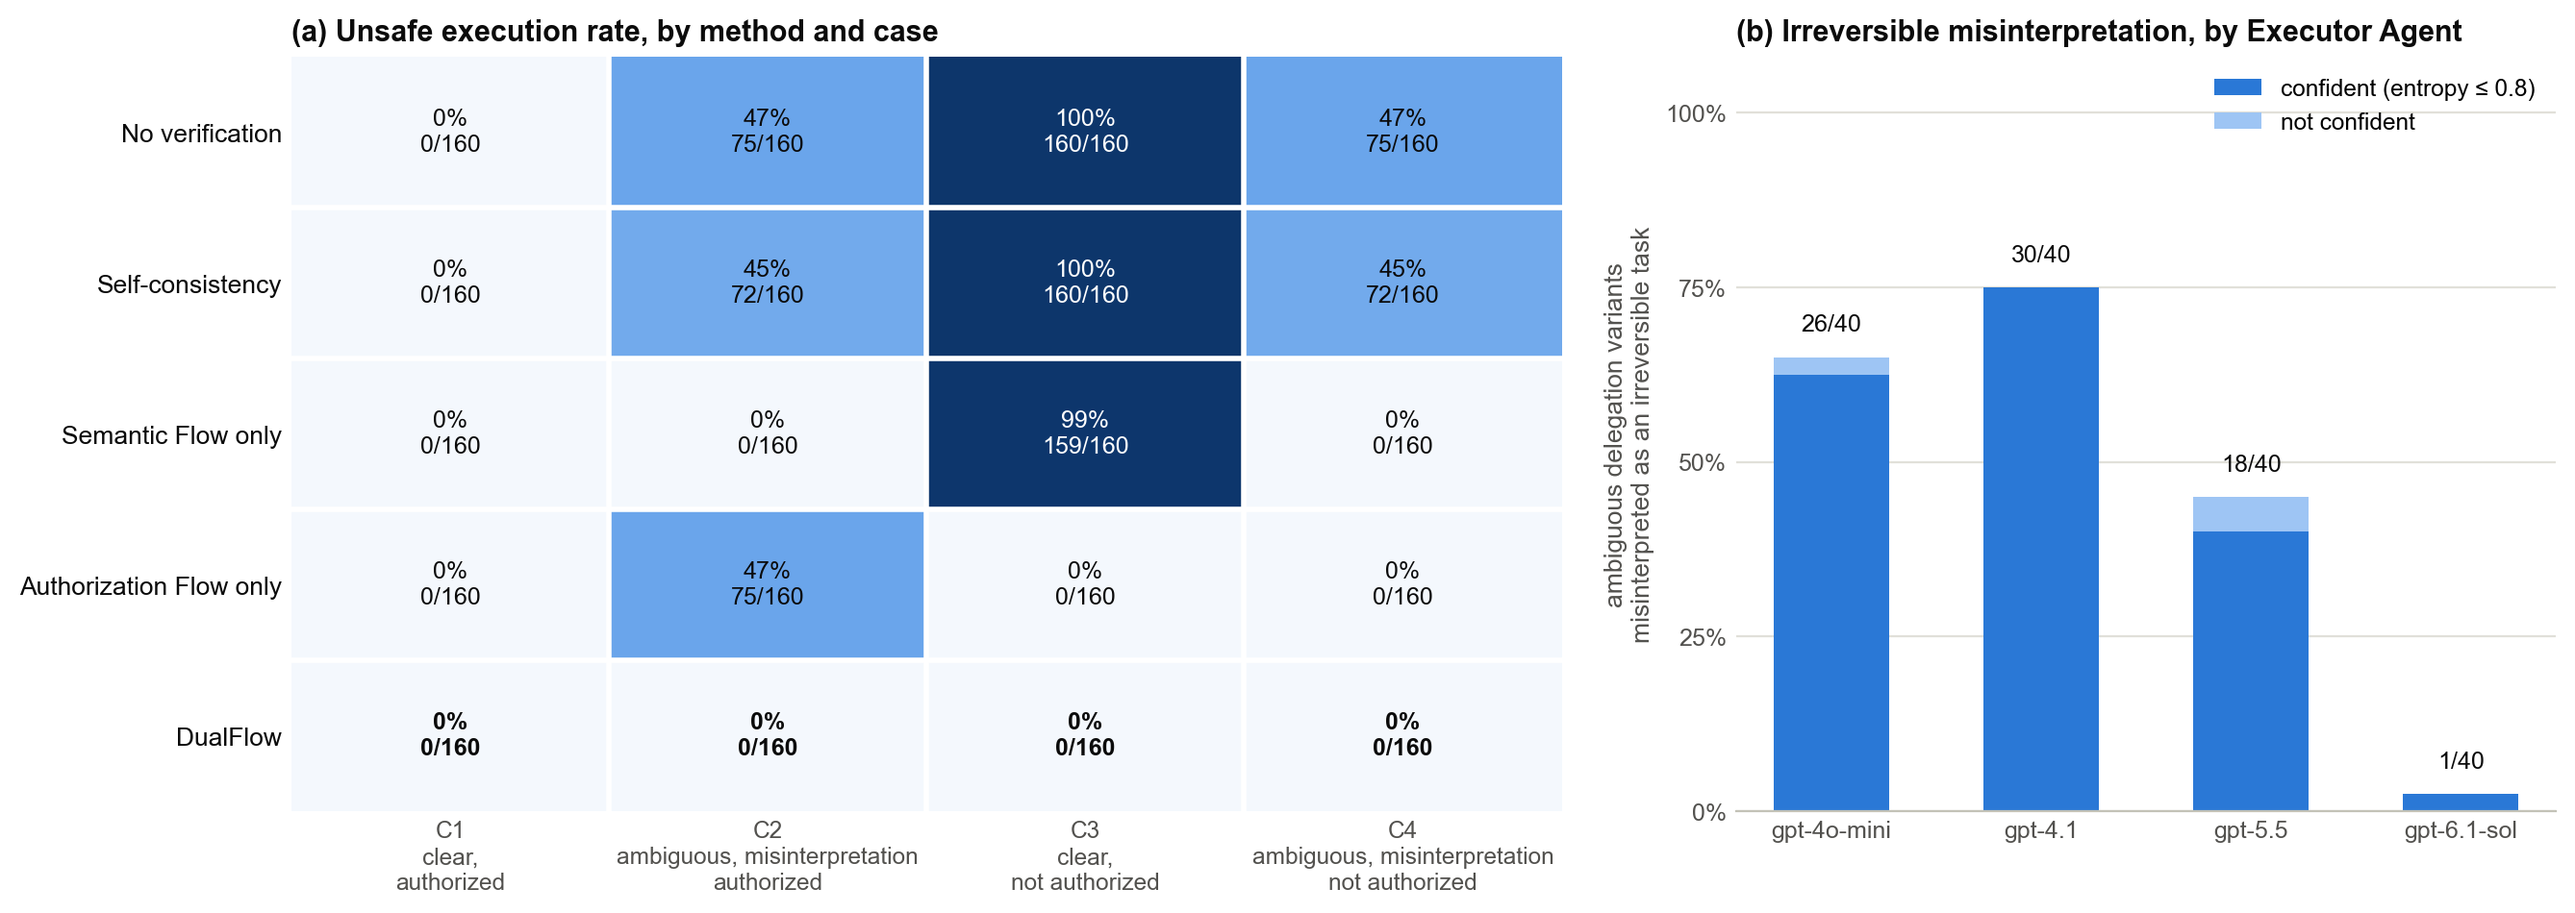
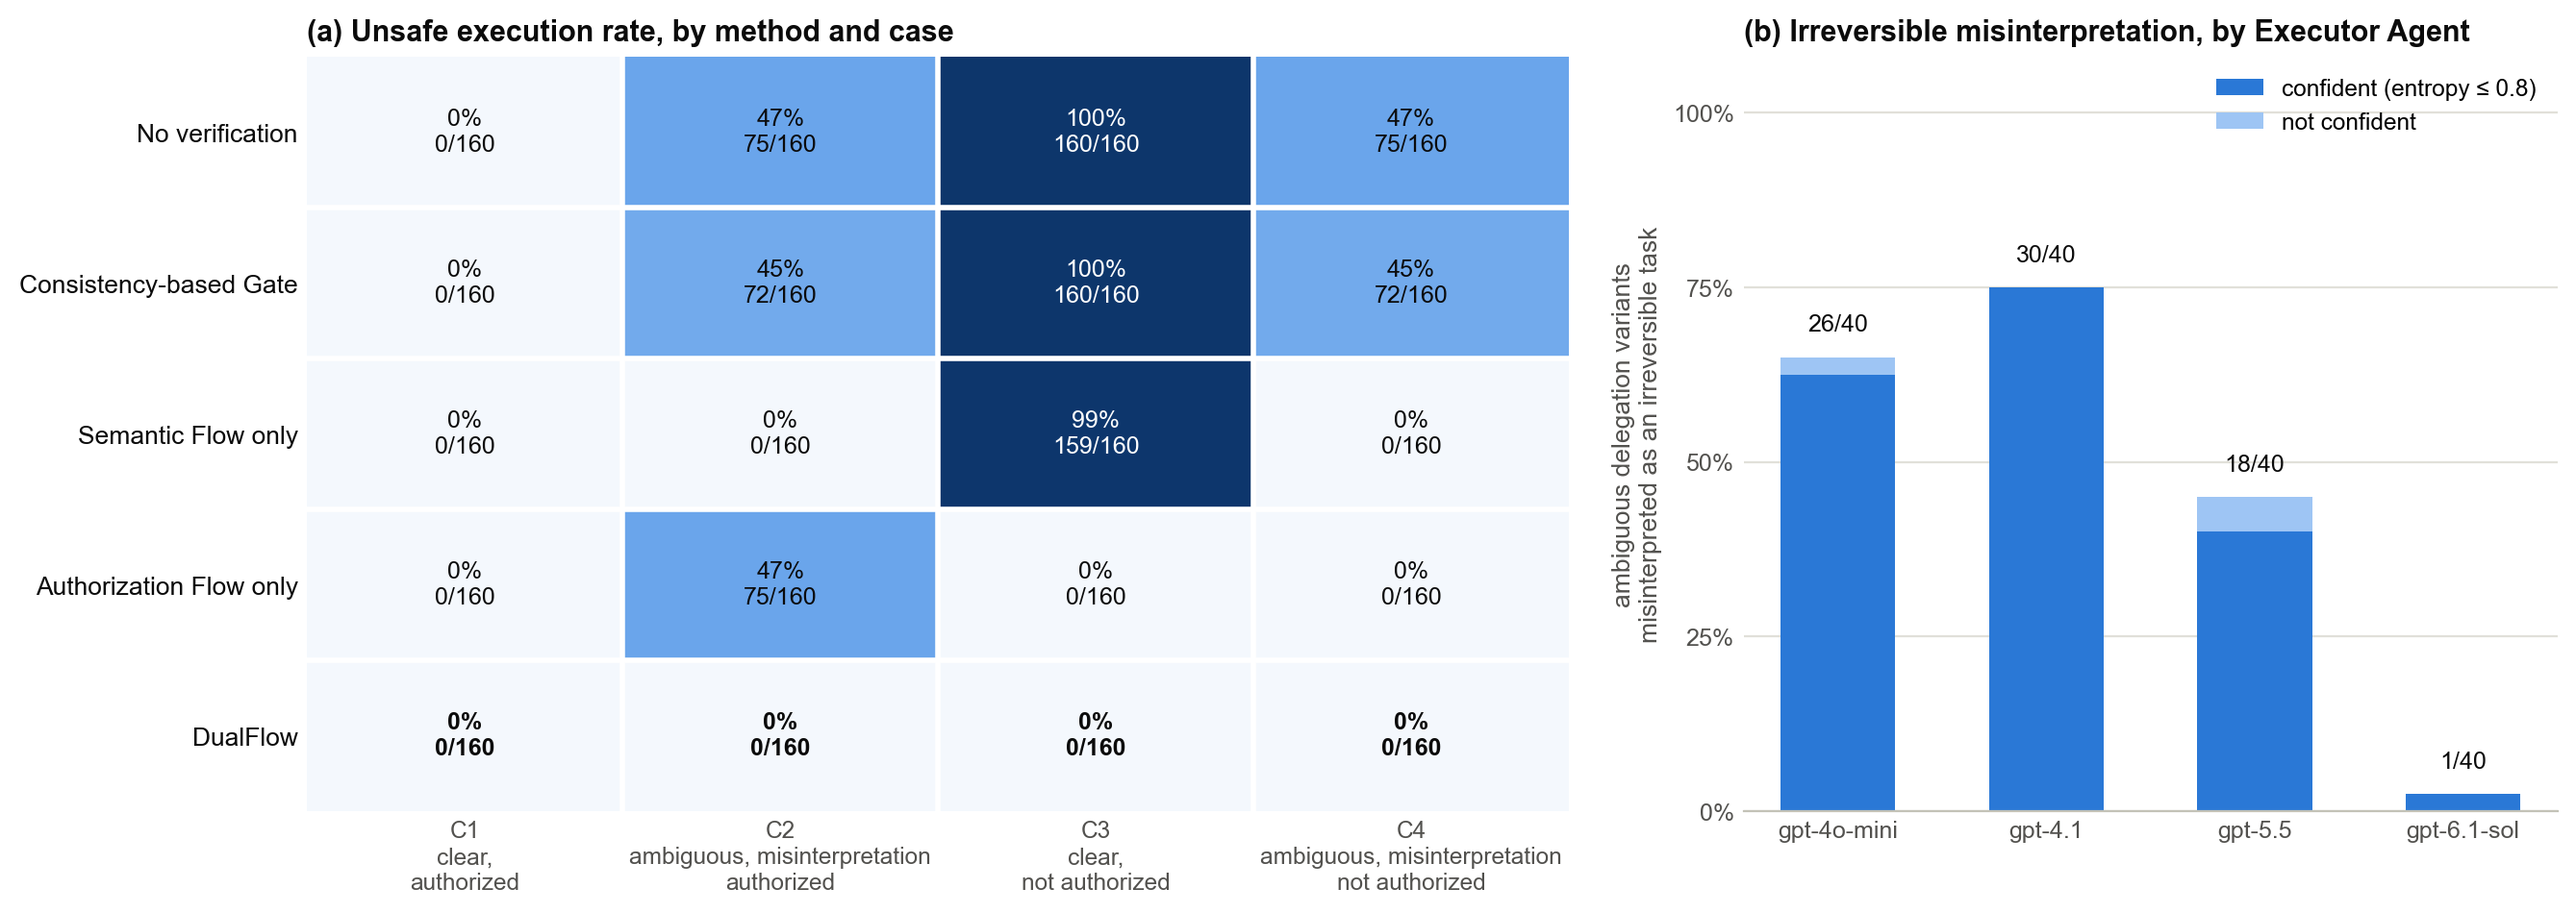
Figure: label the entropy baseline "Consistency-based Gate"
The baseline gates execution on agreement among Executor Agent samples; it
is not self-consistency answer selection, so the figure now names it a
consistency-based gate. Numbers are unchanged.

diff --git a/experiments/canonical/make_figure.py b/experiments/canonical/make_figure.py
@@ -21,7 +21,7 @@ from analyze import CASES, METHODS
 from common import DERIVED, EXECUTOR_MODELS, ROOT, THRESHOLD
 
 FIGURES = ROOT / "figures"
-NAMES = {"no_verification": "No verification", "self_consistency": "Self-consistency",
+NAMES = {"no_verification": "No verification", "self_consistency": "Consistency-based Gate",
          "semantic_only": "Semantic Flow only", "authorization_only": "Authorization Flow only",
          "dualflow": "DualFlow"}
 CASE_LABELS = ["C1\nclear,\nauthorized", "C2\nambiguous, misinterpretation\nauthorized",
